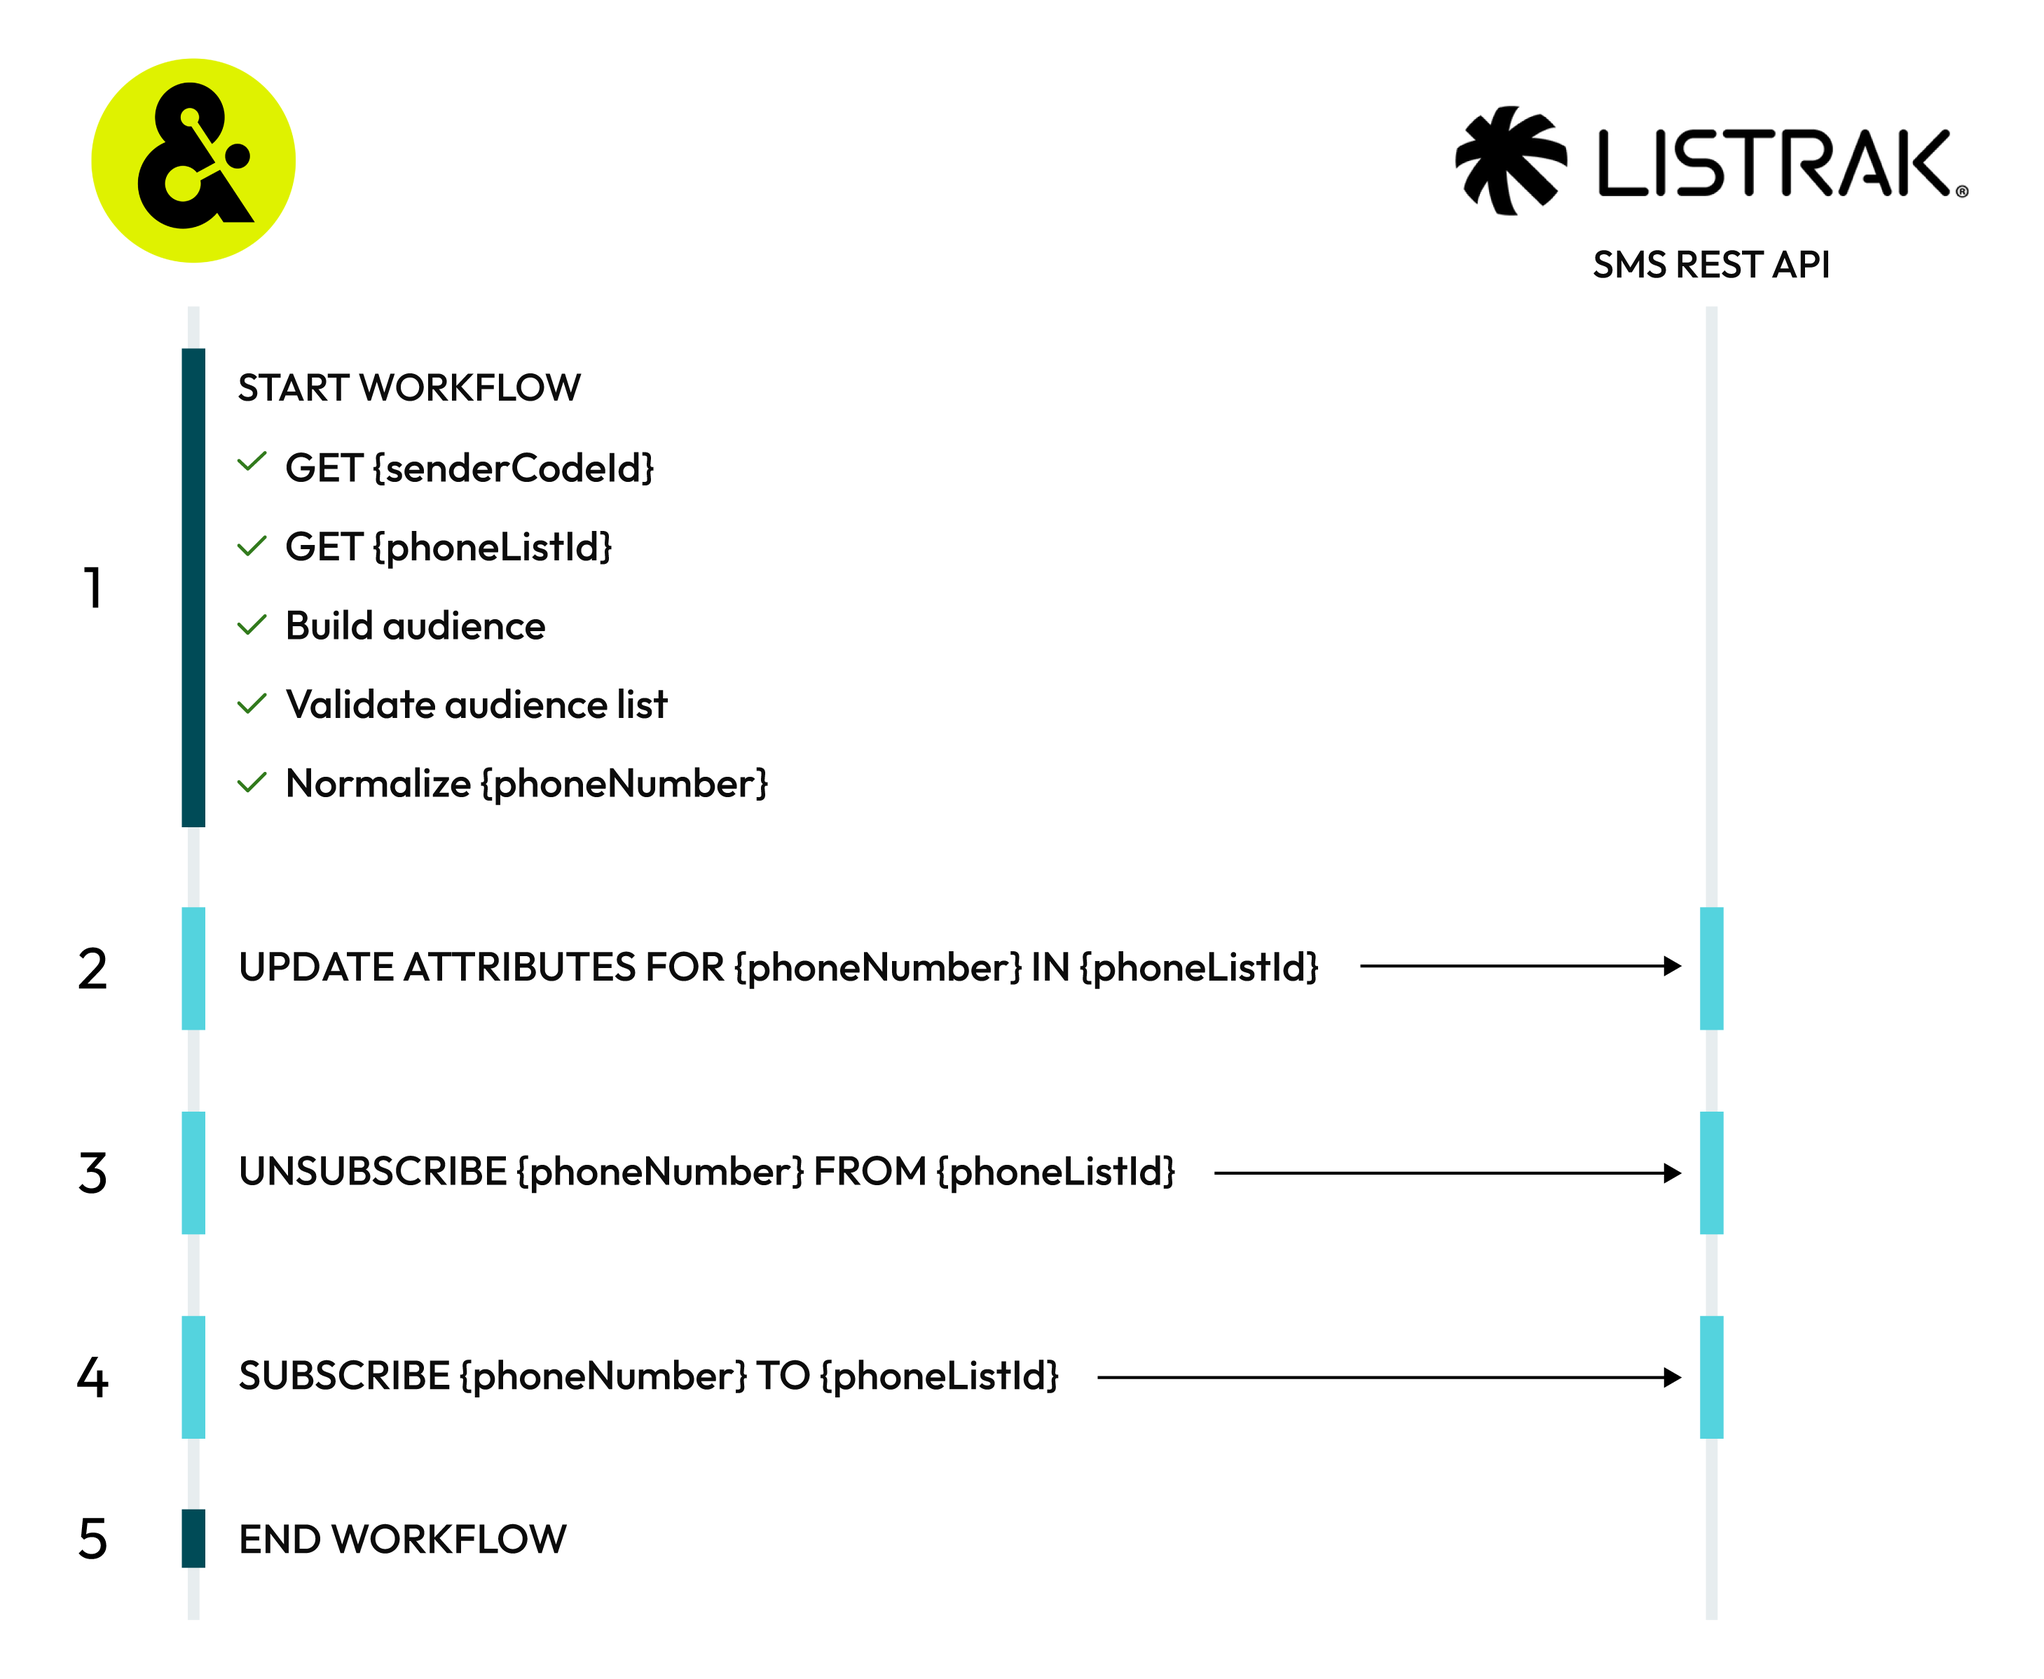
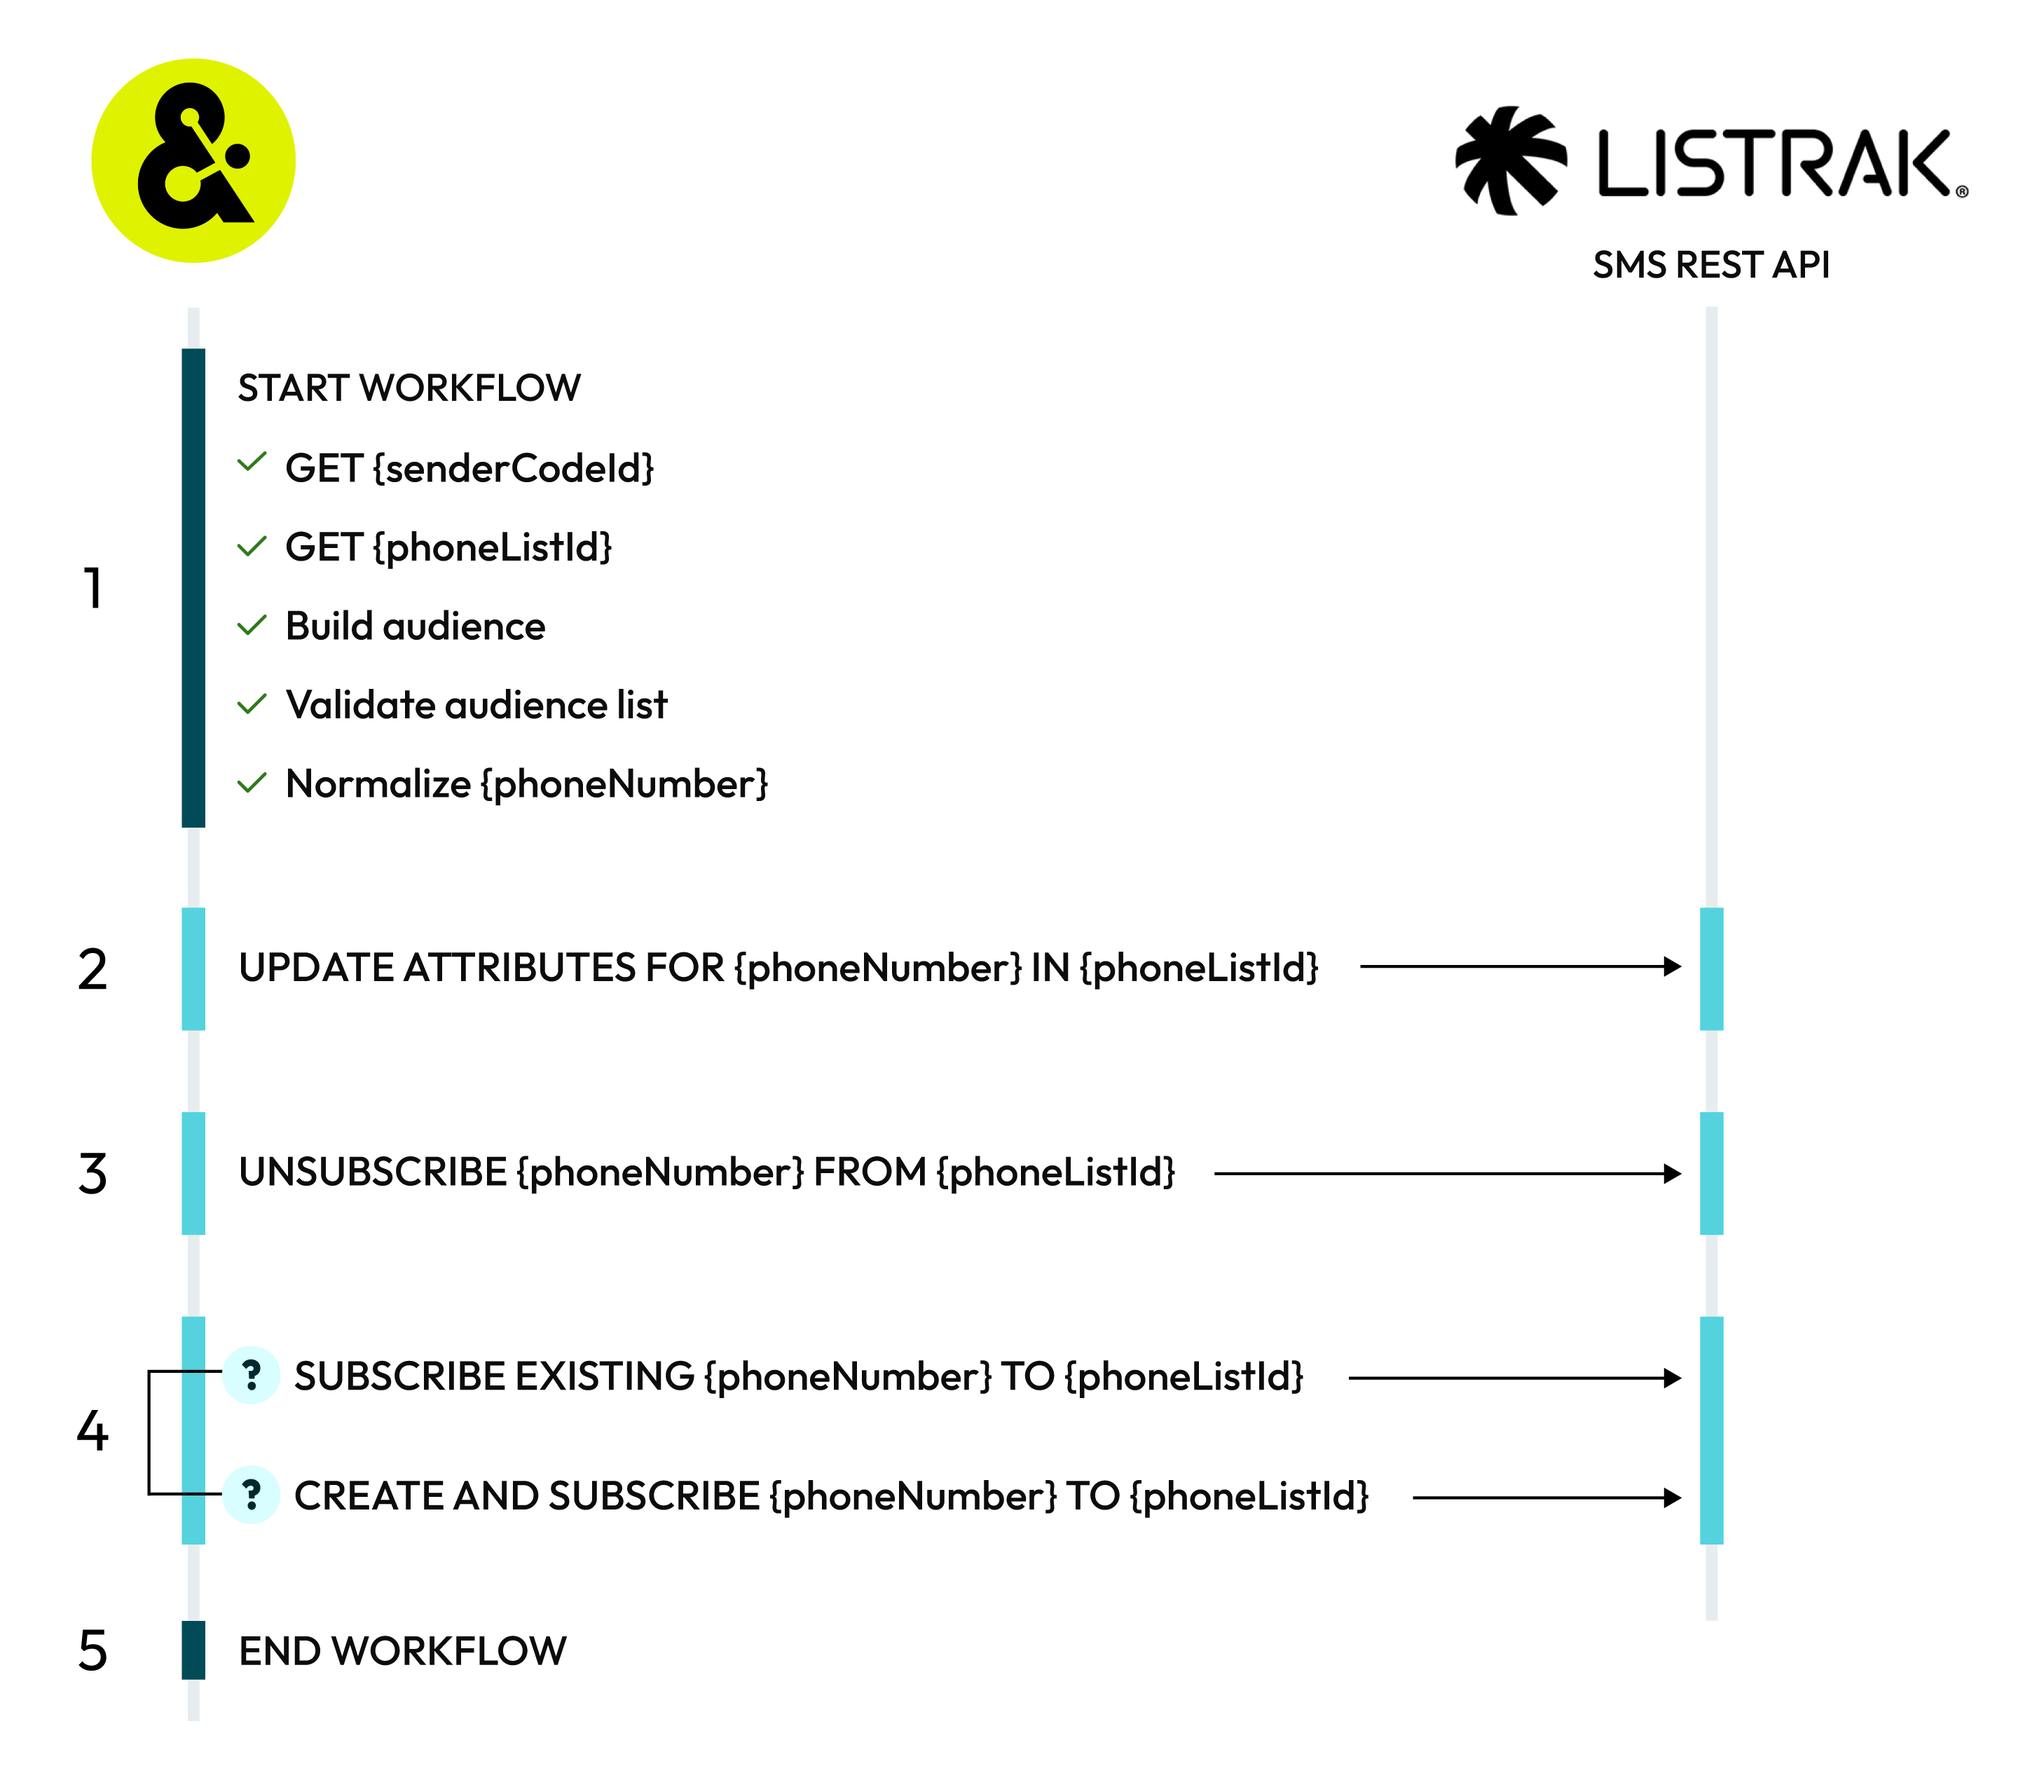
clarify existing versus new

diff --git a/amperity_operator/source/destination_listrak_sms.rst b/amperity_operator/source/destination_listrak_sms.rst
@@ -146,11 +146,23 @@ A |destination-name| destination works like this:
           :alt: Step four.
           :align: center
           :class: no-scaled-link
-     - **SUBSCRIBE {phoneNumber} TO {phoneListId}**
+     - Amperity processes each addition individually. For each audience member with additions, Amperity uses the `Get Contact <https://api.listrak.com/sms#operation/Contact_GetContactResource>`__ |ext_link| endpoint to find out if the audience member already exists in the Listrak SMS list.
+
+       Amperity takes one of two possible actions: subscribes the audience member to the SMS list *or* adds the audience member to the SMS list, subscribes the audience member to the list, and updates additional contact data when it exists in the profile.
+
+       **SUBSCRIBE EXISTING {phoneNumber} TO {phoneListId}**
+
+       Audience members that exist in the SMS list in Listrak are subscribed to the SMS list.
+
+       Amperity uses the `Subscribe Contact <https://api.listrak.com/sms#operation/ContactListSubscription_PostContactListSubscription>`__ |ext_link| endpoint to subscribe each contact to the SMS list. This action only subscribes contacts that already exist on the sender code.
+
+       .. important:: Amperity uses the `Create Contact <https://api.listrak.com/sms#operation/Contact_PostContactListResource>`__ |ext_link| endpoint to create and subscribe the audience member when they do not already exist on the sender code.
+
+       **CREATE AND SUBSCRIBE {phoneNumber} TO {phoneListId}**
 
        Audience members that do not exist in the SMS list in Listrak, but do exist in the current audience being sent to |destination-name| *are automatically subscribed to the SMS list*.
 
-       Amperity uses the `Create Contact <https://api.listrak.com/sms#operation/Contact_PostContactListResource>`__ endpoint to create and subscribe a new audience member for **{phoneNumber}** values that do not exist in an SMS list.
+       Amperity uses the `Create Contact <https://api.listrak.com/sms#operation/Contact_PostContactListResource>`__ |ext_link| endpoint to create and subscribe a new audience member for **{phoneNumber}** values that do not exist in an SMS list.
 
        All audience members added to an SMS list using this endpoint are automatically subscribed to the list when the phone number does not already exist under the sender code.
 
